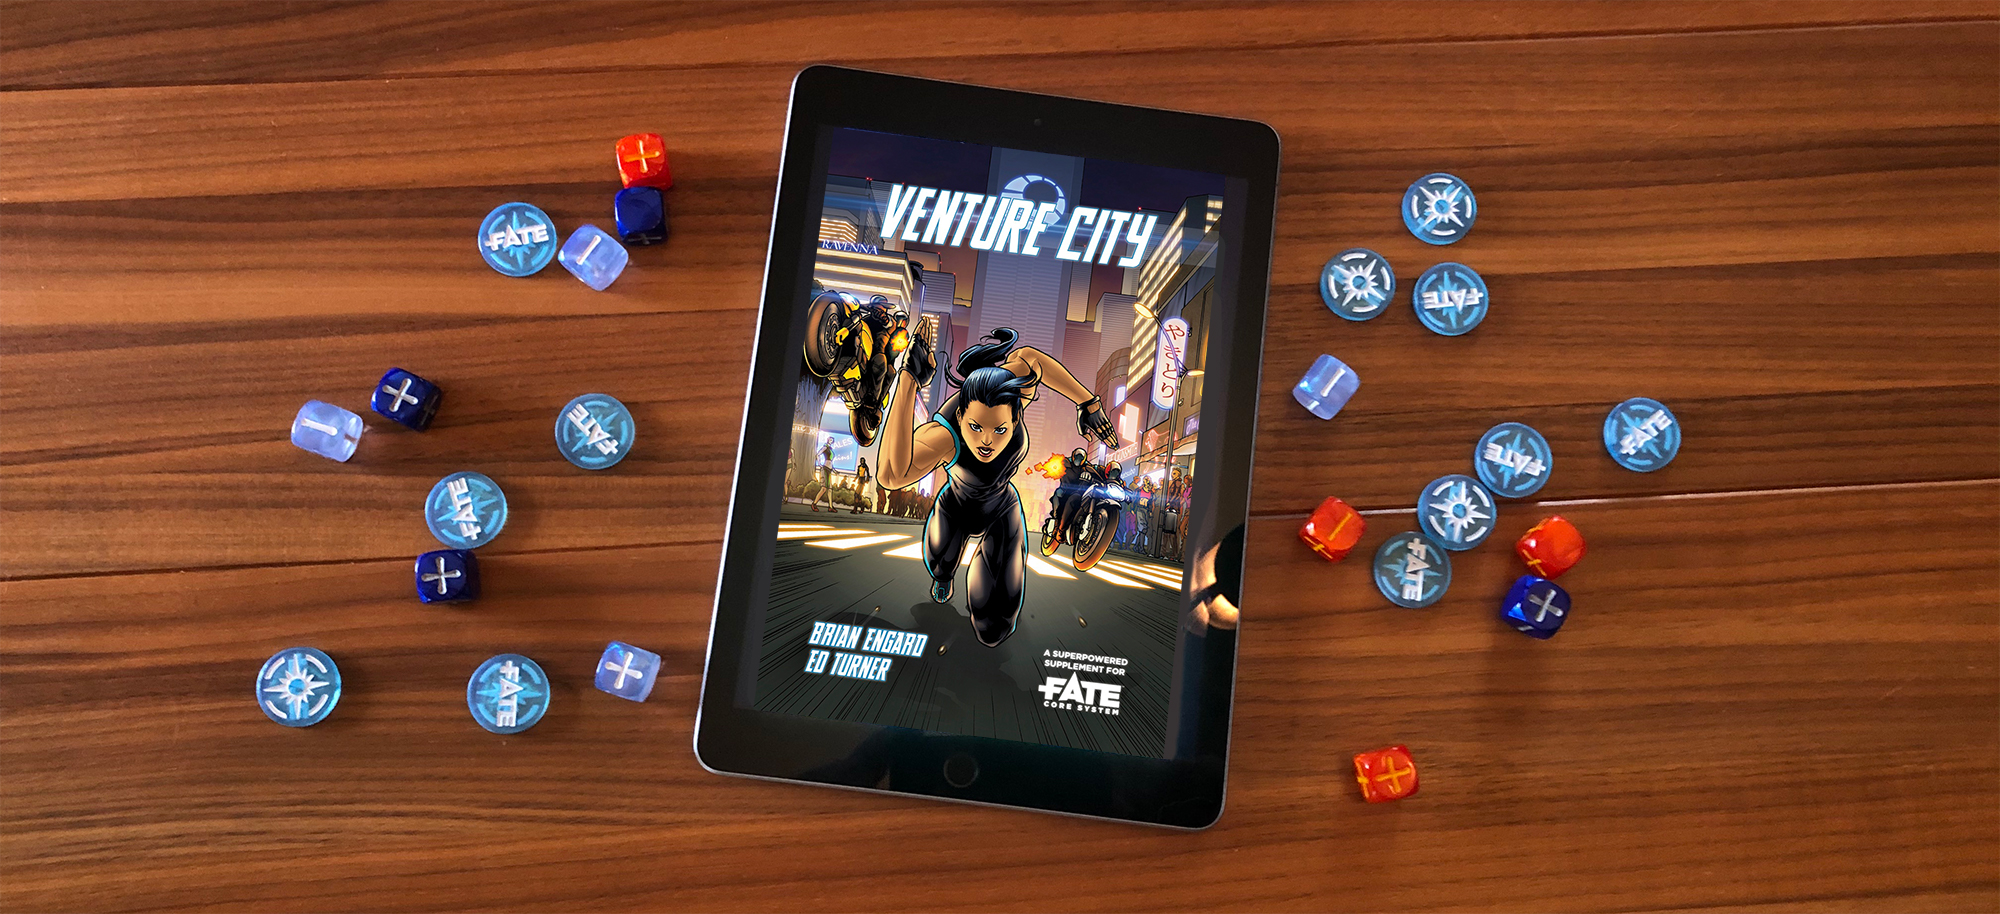
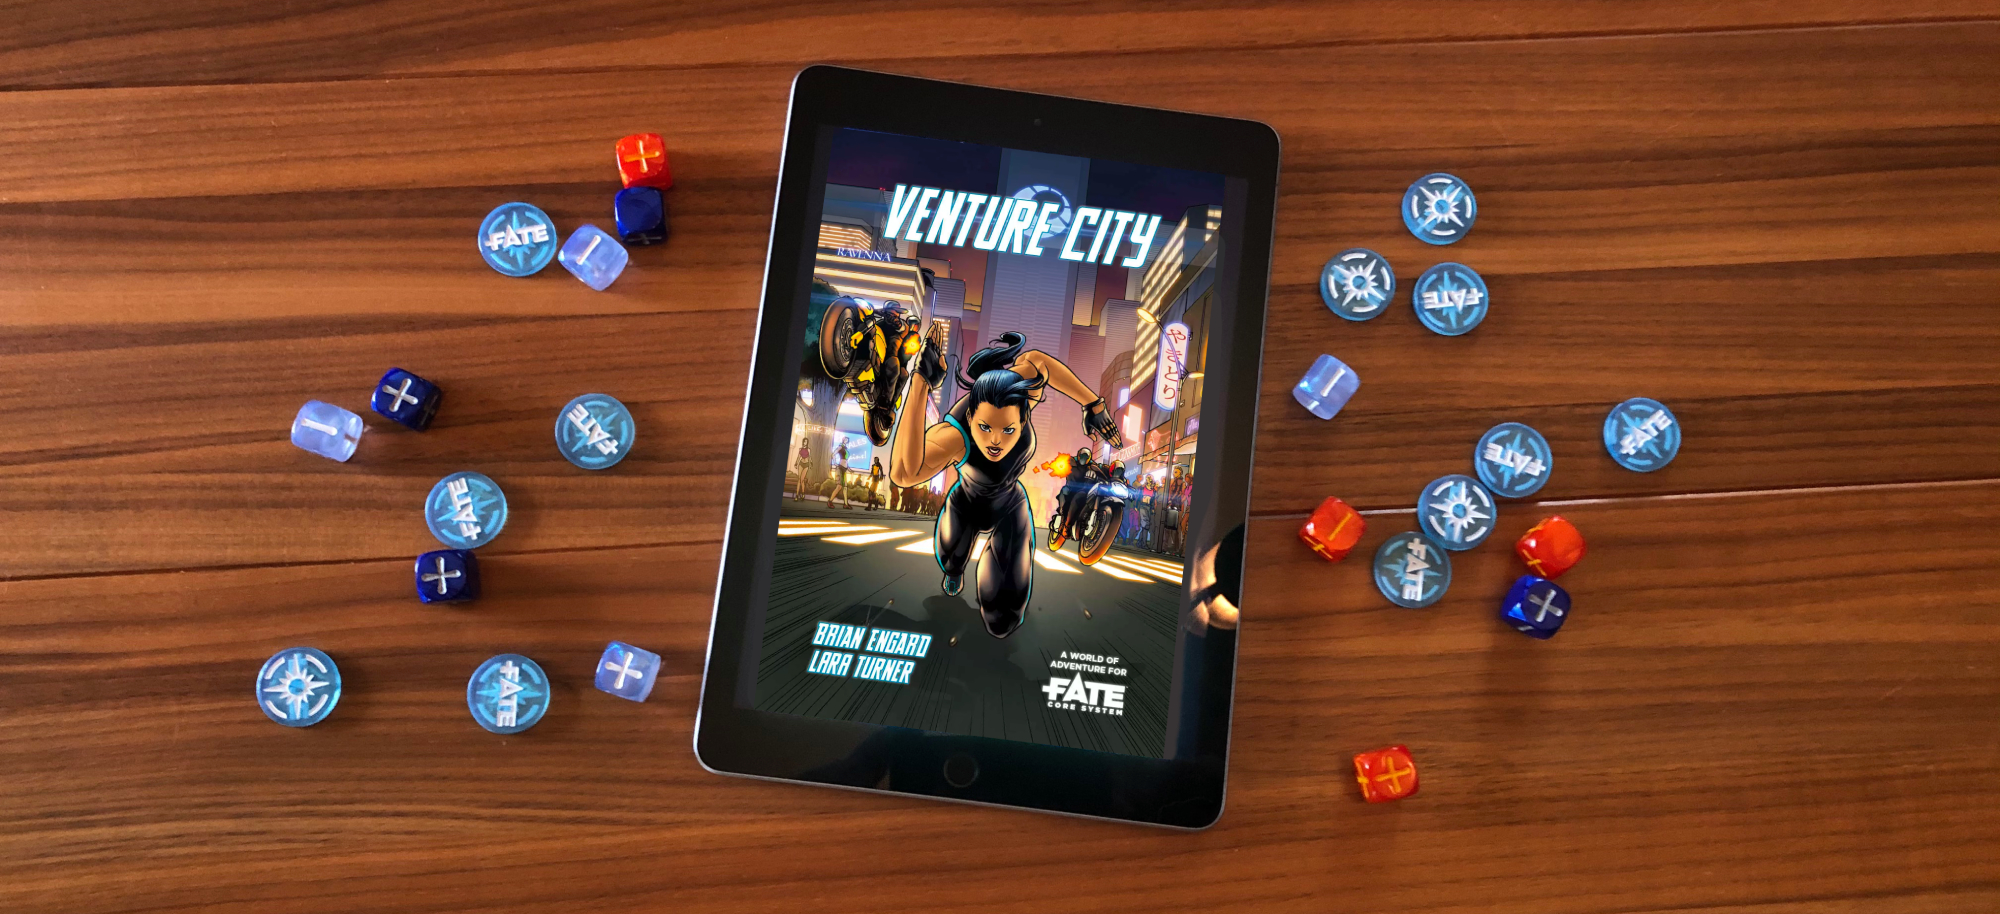
venture city updates

Changed region(s): [[0.372, 0.1838, 0.62, 0.8271]]

diff --git a/src/pages/venture-city/index.js b/src/pages/venture-city/index.js
@@ -6,7 +6,7 @@ import PublicationPage from '../../../assets/components/publicationPage';
 const Page = () => {
   const title = 'Venture City';
   const description =
-    '<p>Take a trip to Venture City, a world of superpowers, villainous corporations, and ruthless gangs, set in a near-future where powers are for sale. From the corporate sponsored heroes to the supervillains in the news, and all the way down to the little guys who try to hide their powers, there are superheroes everywhere you see. Bring them to your Fate Core table with this Venture City compilation, which includes both Venture City Stories and Venture City Powers, written by masterminds Brian Engard and Ed Turner.</p>';
+    '<p>Take a trip to Venture City, a world of superpowers, villainous corporations, and ruthless gangs, set in a near-future where powers are for sale. From the corporate sponsored heroes to the supervillains in the news, and all the way down to the little guys who try to hide their powers, there are superheroes everywhere you see. Bring them to your Fate Core table with this Venture City compilation, which includes both Venture City Stories and Venture City Powers, written by masterminds Brian Engard and Lara Turner.</p>';
 
   return (
     <Layout aside>

diff --git a/assets/components/aside/whereToBuy.js b/assets/components/aside/whereToBuy.js
@@ -93,6 +93,11 @@ const WhereToBuy = ({ value }) => {
       dtr: 'https://www.drivethrurpg.com/product/266197/Fate-Space-Toolkit?affiliate_id=144937',
       itch: 'https://evilhat.itch.io/fate-space-toolkit',
     },
+    'venture-city': {
+      direct: 'https://evilhat.com/product/venture-city/',
+      dtr: 'https://www.drivethrurpg.com/en/product/127246/venture-city-a-superpunk-sourcebook-for-fate-core?affiliate_id=144937',
+      itch: 'https://evilhat.itch.io/venture-city-a-superpunk-sourcebook-for-fate-core',
+    },
   };
 
   if (books[book] == null) return false;
